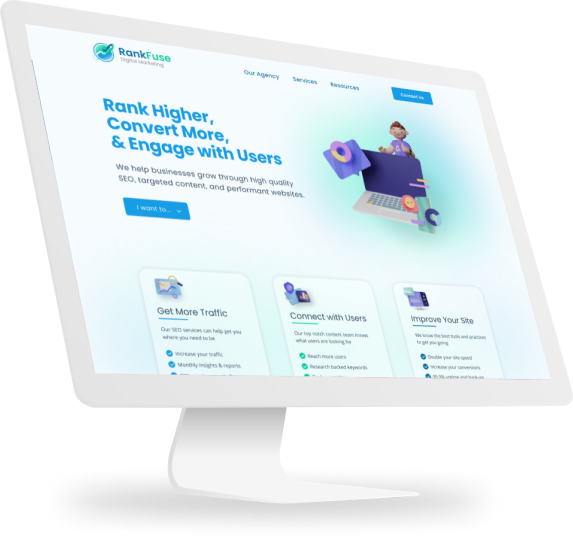
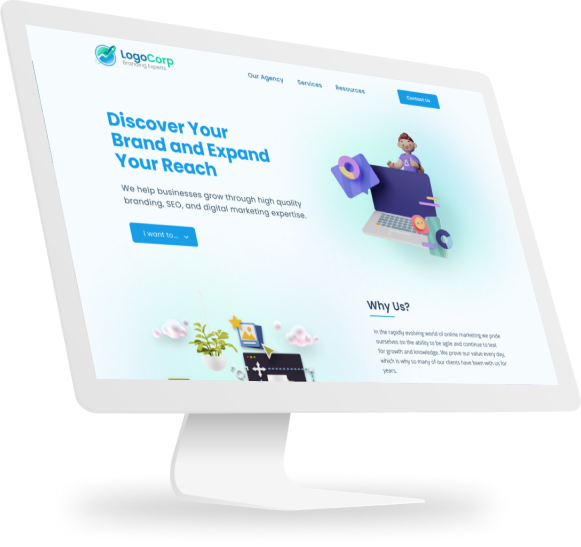
new images for web dev page

diff --git a/components/sections/web-design-and-dev/fastSites.js b/components/sections/web-design-and-dev/fastSites.js
@@ -2,7 +2,7 @@
 import Image from 'next/image';
 
 import TwoColumnVector from '../../layout/TwoColumnVector';
-import WebDevLaptop2 from '../../../public/images/webdev-laptop-2.png';
+import PhonesPerformance from '../../../public/images/3-phones-performance.png';
 
 const FastSites = () => {
     return (
@@ -21,11 +21,11 @@ const FastSitesLeftColumnContent = () => {
     return (
         <div
             sx={{
-                paddingRight: ['0px', '0px', '60px', '30px'],
+                paddingRight: ['0px', '0px', '80px', '40px'],
             }}
         >
             <h3 sx={{ variant: 'text.h2', marginBottom: '10px' }}>
-                The Fastest Sites
+                The Fastest Sites on Any Platform
             </h3>
             <div
                 sx={{
@@ -64,7 +64,7 @@ const FastSitesRightColumnContent = () => {
         >
             <Image
                 alt="Content strategy calendar"
-                src={WebDevLaptop2}
+                src={PhonesPerformance}
                 width={652}
                 height={497}
                 quality={100}

diff --git a/components/sections/web-design-and-dev/headlessWordPress.js b/components/sections/web-design-and-dev/headlessWordPress.js
@@ -3,7 +3,7 @@ import { Button } from 'theme-ui';
 import Image from 'next/image';
 
 import TwoColumnVector from '../../layout/TwoColumnVector';
-import iMacCutout from '../../../public/images/iMacCutout.png';
+import HeadlessWordPressImac from '../../../public/images/headless-wordpress-iMac.png';
 
 const HeadlessWordPress = () => {
     return (
@@ -31,7 +31,7 @@ const HeadlessWordPressLeftColumnContent = () => {
         >
             <Image
                 alt="Content strategy calendar"
-                src={iMacCutout}
+                src={HeadlessWordPressImac}
                 width={572}
                 height={511}
                 quality={100}
